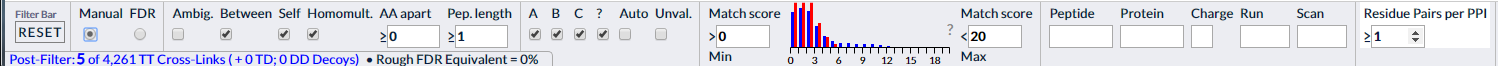
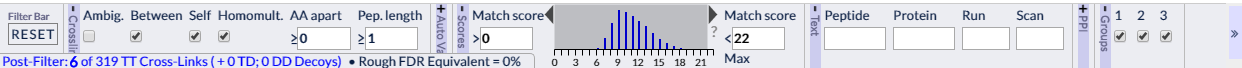
Update docs

diff --git a/html/views/3dngl.html b/html/views/3dngl.html
@@ -14,8 +14,8 @@
 <p><img src="../../img/3d.png" alt="3D View" /></p>
 <p>This view integrates the NGL 3D viewer (see references below) within Xi, showing the currently filtered cross-links in the context of a chosen PDB structure.</p>
 <h3>Representation</h3>
-<p>The majority of the panel is devoted to a 3D representation of the loaded PDB file. Proteins are shown as configurable structures with cross-links superimposed on top as elongated coloured bars. Residues at either end of the cross-links are shown as small grey spheres.</p>
-<p>Within this panel is a short piece of textual information giving the PDB filename and the coverage it has of the proteins in the search. This coverage can range from complete (100%) for single proteins with a fully covering PDB to tiny fractions (1-2%) for large protein complexes.</p>
+<p>The majority of the panel is devoted to a 3D representation of the loaded PDB file. Proteins are shown as configurable structures with cross-links superimposed on top as elongated coloured bars. Residues at either end of the cross-links are shown as small grey spheres. Cross-links where only one end is contained within the PDB are shown as residues.</p>
+<p>Within this panel are two short pieces of textual information giving the PDB filename and the coverage it has of the proteins and cross-links in the search. This coverage can range from complete (100%) for single proteins with a fully covering PDB to tiny fractions (1-2%) for large protein complexes. The number of cross-links can similarly vary from all of the currently filtered cross-links to only a handful where a PDB covers only a small fraction of the search proteins. As a rule of thumb a PDB file that covers only 50% of the protein sequences in a search can expect to display 25% (0.5 squared) of the full link set (both residues are covered) and 50% of the remaining links with one residue covered. For 10% coverage this drops to 1% (0.1 squared) for full links and 18% for half links.</p>
 <h3>Direct Interaction</h3>
 <p>Positional manipulation of the view is performed by clicking anywhere on the view and dragging the mouse pointer with the following effects:</p>
 <ul>
@@ -40,23 +40,24 @@
 <p>There are a number of options available that can affect the visual presentation of the cross-links in the 3D view.</p>
 <p>The &quot;Re-Centre&quot; button re-centres the structure within the panel (also available by pressing &quot;R&quot;.)</p>
 <p>There are three single selection drop-downs for choosing the parts of the PDB to display and for styling the protein structure itself. The first, &quot;Assembly&quot;, offers a choice of which biological assembly within the PDB file to display. The default is the whole PDB structure, and other options may include UnitCell (usually the same thing), SuperCell (multiple copies of the PDB arranged spatially) and various Biological Assemblies. These Biological Assemblies can range in scale from part of the PDB, through matching the PDB exactly, up to being composed of multiple copies of the PDB - experimentation with these settings is the only way to find out for certain though details on definitions can be found at <a href="https://pdb101.rcsb.org/learn/guide-to-understanding-pdb-data/biological-assemblies" title="Biological Assemblies">https://pdb101.rcsb.org/learn/guide-to-understanding-pdb-data/biological-assemblies</a>.</p>
+<p>The choice of assembly is important as it also usually constrains the PDB sub-structure on which cross-link distances will be calculated. For instance with PDB 1AO6, choosing to display the full PDB (two adjacent copies of the same protein) will look for possible cross-links within <em>and between</em> those two proteins. Choosing to display just one of the proteins (Bio-Assembly 1 or 2) will limit cross-link calculation to within just this protein.</p>
 <p>The second, &quot;Draw Proteins&quot;, changes the style of the protein representation. The default is &quot;Cartoon&quot; with other styles described here --&gt; <a href="%22http://nglviewer.org/ngl/api/manual/molecular-representations.html%22">NGL Representation Styles</a>. In practice, they range from atom-level representations like &quot;Point&quot; or &quot;Ball+Stick&quot; to more abstract representations such as &quot;Rope&quot; or &quot;Cartoon&quot;.</p>
-<p>The third selection dropdown, &quot;Colour Proteins&quot;, controls the colouring of the protein representations. They range from the default &quot;Uniform&quot; grey colouring to colour schemes that change on a per-atom or per-residue basis such as &quot;Element&quot; or &quot;Residue Name&quot;. Consequently, some colour schemes are only useful in conjunction with given representation styles e.g. the &quot;Element&quot; colour scheme works with &quot;Ball+Stick&quot; but has no effect in the &quot;Cartoon&quot; representation. A full list of NGL colour schemes can be found here --&gt; <a href="%22http://nglviewer.org/ngl/api/manual/coloring.html%22">NGL Colour Schemes</a>.</p>
+<p>The third selection dropdown, &quot;Colour Proteins&quot;, controls the colouring of the protein representations. They range from the default &quot;Uniform&quot; grey colouring to colour schemes that change on a per-atom or per-residue basis such as &quot;Element&quot; or &quot;Residue Name&quot;. Consequently, some colour schemes are only useful in conjunction with given representation styles e.g. the &quot;Element&quot; colour scheme works with &quot;Ball+Stick&quot; but has no effect in the &quot;Cartoon&quot; representation. A full list of NGL colour schemes can be found here --&gt; <a href="%22http://nglviewer.org/ngl/api/manual/coloring.html%22">NGL Colour Schemes</a>. There is one XiView specific scheme - &quot;Residues with Half-Links&quot; - that highlights residues that form one end of a cross-link where the other end is out of scope of the PDB structure.</p>
 <p>A final drop-down menu, &quot;Show&quot;, holds several options for setting various decorations on the protein structure, and some options for controlling how cross-links are superimposed upon the structure.</p>
 <p>For cross-links there are two independent options, we can:</p>
 <ol>
 <li>Show selected cross-links only - this reduces clutter and selected cross-links aren't obscured by unselected cross-links, which is particularly noticeable in 3D.</li>
 <li>Show shortest possible cross-links only - in PDB structures with multiple copies of a protein, there are multiple places a cross-link could be positioned. E.g. in a dimer structure (protein copies A and B) a cross-link between positions 1 and 2 could have four possible solutions, A1-A2, A1-B2, B1-A2 or B1-B2. This setting, selected by default, tells the view to show only the shortest possible cross-link out of these possibilities.</li>
+<li>Show Inter-Model distances - PDB structures are sometimes divided into separate models. These models may not be accurately aligned to each other or may even be a number of slightly different alternative structures occupying the same space, and thus distances between them may be meaningless. By default this option is set to off, but can be checked and will then calculate distances between residues in different PDB models.</li>
 </ol>
 <p>The other available options under &quot;Show&quot; are</p>
 <ul>
 <li>Show Cross-Linked Residues - represent residues as balls at the ends of displayed cross-links.</li>
 <li>Show All Proteins - show proteins in multiple protein PDBs that aren't potentially involved in the current set of filtered cross-links.</li>
 <li>Show Distance Labels - displayed cross-links are annotated with a small label showing their length in Angstroms. These show up regardless for selected or highlighted cross-links.</li>
-<li>Protein Chain Label Style - Long, Short, None - a set of radio buttons for deciding the content of the label annotating each protein. Long for a verbose description which NGL pulls from the PDB file (plus the short description), short for a label with the protein name and chain index, and none to remove these labels altogether.</li>
+<li>Protein Chain Label Style - Long, Short, None, Fixed Size - a set of radio buttons for deciding the content of the label annotating each protein. Long for a verbose description which NGL pulls from the PDB file (plus the short description), short for a label with the protein name and chain index, and none to remove these labels altogether. A final checkbox, &quot;Fixed Size&quot;, determines whether these labels stay a fixed size when the structure is zoomed in or out.</li>
 </ul>
 <p>There is one remaining button which sits by itself, &quot;Download Image as PNG&quot;, which will download a PNG (bitmap format) file of the current state of the 3D view. A vector graphic format is not available for this view. The filename will include information on search id and current filter settings.</p>
-<p>Lastly, like the other views that sit in sub-panels, the 3D view can be resized by clicking on and dragging its corners, and repositioned by clicking on and dragging the title bar. The view can be closed using the X button next to the top right-hand corner.</p>
 <h3>References</h3>
 <ul>
 <li>AS Rose, AR Bradley, Y Valasatava, JM Duarte, A Prlić and PW Rose. <em>NGL viewer: web-based molecular graphics for large complexes.</em> Bioinformatics: bty419, 2018. <a href="http://dx.doi.org/10.1093/bioinformatics/bty419">doi:10.1093/bioinformatics/bty419</a></li>

diff --git a/html/views/filterBar.html b/html/views/filterBar.html
@@ -14,12 +14,12 @@
 <p><img src="../../img/filterBarABC.png" alt="Filter Bar" /></p>
 <p>At the bottom of the xiView results visualisation page are a bar of controls for filtering the data. Working from left to right, these fall into the following subsections:</p>
 <ul>
-<li>Modal</li>
-<li>Cross-link attributes</li>
+<li>Mode</li>
+<li>Crosslinks (Cross-link attributes)</li>
 <li>Then either both of
 <ul>
-<li>Pass / Fail Threshold (or ABC / Auto / Unval)</li>
-<li>Score Cut-Off</li>
+<li>Pass / Fail Threshold (or Auto Val - ABC / Auto / Unval)</li>
+<li>Scores</li>
 </ul>
 </li>
 <li>Or
@@ -27,10 +27,14 @@
 <li>FDR</li>
 </ul>
 </li>
-<li>Match Attributes</li>
+<li>Text (Match attributes)</li>
+<li>PPI (Proteins Per Interaction)</li>
+<li>Groups</li>
 </ul>
+<p>Each subsection is collapsible / re-expandable by clicking on the name of the sub-section. This allows filters of interest to be viewed without being pushed off the edge of the display.</p>
 <p>A summary line at the very bottom of the window describes the effect of the current filtering state on the cross-link data set, and a button is also available to reset the filter state.</p>
-<h3>Modal</h3>
+<p>It is important to be aware that the filter operates conjunctively i.e. a match / cross-link must pass all the filters set here to become visible.</p>
+<h3>Mode</h3>
 <p>This sub-bar, comprised of two radio buttons: 'Manual' and 'FDR', only appears if unvalidated cross-links have been loaded as well. 'Manual' is selected by default and means the following other sub-bars are available in the filter bar: 'Cross-link positional categories', 'Score Cut-off' and 'Match attributes'. Selecting 'FDR' replaces the 'Cross-link positional categories' and 'Score Cut-off' sub-bars with the FDR sub-bar; the 'Match attributes' sub-bar remains in place.</p>
 <h3>Cross-link positional categories</h3>
 <p>These controls allow including or excluding categories of cross-links which are defined on the basis of link position. These categories are:</p>
@@ -46,32 +50,37 @@
 <p>Radio buttons that allow all matches, only those where the 'pass threshold' attribute (as read from the uploaded data) is true, or only those where it is false. This section appears in the Public version of XiView.</p>
 <h3>ABC / Auto / Unval - XiView Lab</h3>
 <p>A set of checkboxes that pass or filter out cross-links based on their manually assessed quality (A, B, C and ?), or their algorithmically assessed quality (AUTO), or their validation status (Unval. = unvalidated). This section only appears in the Rappsilber Lab version of the interface as it depends on specialised output from XiSearch.</p>
-<h3>Score Cut-off</h3>
+<h3>Scores</h3>
 <p>This sub-section allows upper and/or lower score cut-offs for the matches to be set. These is done by entering text in the input fields or dragging on the histogram to set and move a range slider.</p>
 <p>Note that the contents of the score histogram shown here is not affected by other filter settings; to see a histogram of scores post-filtering open the <a href="./histogram.html" title="Histogram View">Histogram View</a>.</p>
 <h3>FDR</h3>
 <p>When the FDR mode is selected, this sub-bar allows a basic link-level FDR threshold to be set. Matches that do not pass the threshold are filtered out. Five pre-set levels are provided (1, 5, 10, 20, and 50%) along with an open-entry input for other values. FDRs are reported separately for within and between protein cross-link sets.</p>
 <p><img src="../../img/filterBarFdr.png" alt="Filter Bar FDR" /></p>
-<h3>Match Attributes</h3>
+<h3>Text</h3>
 <p>A number of text boxes that allow matches to be filtered based on the contents of some of their attributes.</p>
 <ul>
 <li>
 <p>'Peptide' filters to matches that include the entered text string as part of either of the linked peptide sequences, e.g. 'FAKR' would filter to matches where one of the linked peptides includes the subsequence FAKR. Separating two strings with a hyphen will filter to matches where one peptide includes one subsequence and the second one the other, e.g. 'FAKR-KK' will filter to matches where FAKR is in one peptide and KK in the other.</p>
 </li>
 <li>
-<p>'Protein' takes in a comma separated list of values that are text matched against protein descriptions and names. Matches that don't link such proteins are filtered out. A hyphen can be used to specify matches that link two particular proteins or sets of proteins. E.g., &quot;ALBU&quot; would show matches that involve a protein containing the text 'ALBU' in its name or description such as ALBU-HUMAN. &quot;BOVINE-CHICK&quot; would show all matches that connect proteins where one protein contains 'BOVINE' and the other 'CHICK'. &quot;ALBU, BOVINE-CHICK&quot; would additively combine the previous two scenarios.</p>
+<p>'Protein' takes in a comma separated list of values that are text matched against protein descriptions and names. Matches that don't link such proteins are filtered out. A hyphen can be used to specify matches that link two particular proteins or sets of proteins. E.g., &quot;ALBU&quot; would show matches that involve a protein containing the text 'ALBU' in its name or description such as ALBU-HUMAN. &quot;BOVINE-CHICK&quot; would filter to all matches that connect proteins where one protein contains 'BOVINE' and the other 'CHICK'. &quot;ALBU, BOVINE-CHICK&quot; would additively combine the previous two scenarios.</p>
 </li>
-<li>
-<p>'Charge' filters out matches that do not have the entered charge state, which is always a positive integer. Two numbers separated by a hyphen indicate that a range will be used as a filter e.g. '3-6' will filter out all matches with charge states less then 3 or more than 6.</p>
-</li>
+</ul>
+<!---
+- 'Charge' filters out matches that do not have the entered charge state, which is always a positive integer. Two numbers separated by a hyphen indicate that a range will be used as a filter e.g. '3-6' will filter out all matches with charge states less then 3 or more than 6.
+-->
+<ul>
 <li>
 <p>'Run' filters out matches whose 'Run' attribute does not contain the entered text as a sub-string.</p>
 </li>
 <li>
-<p>'Scan' similarly filters out matches whose 'Scan' attribute does not contain the entered text as a sub-string. Whilst 'Scan' is actually a number, treating it as a string here allows more flexibility: entering say '21' will pass all matches whose scan number includes '21' at some position, rather than exactly matching '21'.</p>
+<p>'Scan' filters out matches whose 'Scan' attribute does not match the exact number entered here.</p>
 </li>
 <li>
 <p>'Residue Pairs per PPI' sets a threshold on the number of distinct matches between pairs of proteins that needs to be met before those matches are shown. This can be useful for quickly filtering out weakly interacting protein-protein pairs, and can tidy up the XiNet view in particular.</p>
+</li>
+<li>
+<p>If multiple searches are being visualised together, the 'Groups' section will be visible. Within this are checkboxes for each of the search group numbers defined by the user back on the history page. Unchecking will remove all matches that belong to a particular search group.</p>
 </li>
 </ul>
 <h3>Summary</h3>

diff --git a/html/views/circular.html b/html/views/circular.html
@@ -4,18 +4,21 @@
 <title>circular</title>
 <meta http-equiv="Content-Type" content="text/html; charset=utf-8" />
 <style type="text/css">
-@import url("/xidocs/docs.css");
+@import url("../../docs.css");
+@import url("../docs.css");
+@import url ("/xidocs/docs.css");
 </style>
 </head>
 <body>
 <h2>Circular View</h2>
 <p><img src="../../img/circular.png" alt="Circular View" /></p>
 <h3>Representation</h3>
-<p>This view uses a version of the popular Circos layout to display the Cross-Links. Proteins are arranged around the circumference of the circle as thick arcs relative to their length, and cross-links are shown as curves connecting proteins at the appropriate positions. Where possible proteins are labelled with their names, though for displays showing many proteins this is not always possible, especially for shorter proteins.</p>
+<p>This view uses a Circos-like layout to display the Cross-Links. Proteins are arranged around the circumference of the circle as thick arcs of lengths proportional to protein size, and cross-links are shown as curves connecting proteins at the appropriate positions. Where possible proteins are labelled with their names, though for displays showing many proteins this is not always possible, especially for shorter proteins.</p>
 <h3>Direct Interaction</h3>
 <p>Like the other views in Xi View, individual cross-links can be highlighted by moving the mouse pointer over them (plus a tooltip supplies details on the particular cross-link). Similarly, cross-links can be selected by using the left mouse button. In conjunction with the CTRL key, multiple cross-links can be selected (by clicking on unselected links) and currently selected cross-links can be unselected.</p>
 <p>Highlighting and selecting can also be performed on the protein representations. Here, selecting a protein will also select all the cross-links that connect to it. Again, in conjunction with the CTRL key, multiple proteins can be selected and deselected.</p>
 <p>Clicking with the left mouse button on the background of the view will clear all selections.</p>
+<p>Manual ordering of multiple proteins can be performed by left-clicking on a protein representation and dragging to a new position around the circumference of the circle.</p>
 <h3>Options</h3>
 <p>There are two drop-down menus present that can affect the visual presentation of the cross-links in the circle view.</p>
 <p>The first, &quot;Order Proteins&quot;, decides the ordering of proteins around the circumference and as such is useful for multiple protein searches. The proteins may be ordered either alphabetically (default), by sequence length, or using an algorithm intended to set the protein ordering to reduce visual crossings in the display (this necessarily only reduces crossings of between cross-links, self cross-links are at set positions within a single protein).</p>
@@ -25,9 +28,9 @@
 <li>Residue Labels (If Few Links) - if only a small number of cross-links are currently displayed (around 20) then the amino acid letters can be shown at the ends of the cross-links.</li>
 <li>Self-Links on Outside - self links can be moved to the outside of the protein circle, leaving only between links in the interior of the circle.</li>
 <li>Links With Overlapping Peptides Opposite To Self Links - a.k.a. homomultimers... whichever side (in/out) self-links are displayed on, checking this setting will show homomultimeric cross-links on the other side.</li>
+<li>Selected Cross-Links Only - only show currently selected cross-links in this view.</li>
 </ol>
-<p>There is one remaining button which sits by itself, &quot;Download Image as SVG&quot;, which will download an SVG (vector format) file of the current state of the circular view. The filename will include information on search id and current filter settings.</p>
-<p>Lastly, like the other views that sit in sub-panels, the circular view can be resized by clicking on and dragging its corners, and repositioned by clicking on and dragging the title bar. The view can be closed using the X button next to the top right-hand corner.</p>
+<p>Finally, there is one remaining button which sits by itself, &quot;Download Image as SVG&quot;, which will download an SVG (vector format) file of the current state of the circular view. The filename will include information on search id and current filter settings.</p>
 
 </body>
 </html>

diff --git a/html/xiview.html b/html/xiview.html
@@ -12,7 +12,7 @@
 <body>
 <h2>Xi View</h2>
 <p>Xi View contains many different ways to view cross-link data, from circle plots, protein network views, protein sequence views and tables, to raw spectra and peak views. Data can be filtered and exported, as can images. PDB datasets can be incorporated to give physical context to the cross-links, enabling 3D and contact map views, with automatic alignment performed between Xi and PDB sequences.</p>
-<p>This documentation is divided into four logical sections:</p>
+<p>This documentation is divided into three logical sections:</p>
 <ol>
 <li>Filtering Data</li>
 <li>Viewing Data</li>
@@ -49,11 +49,20 @@
 </ol>
 </li>
 </ul>
-<p>The <a href="./views/legend.html" title="Legend View">Legend View</a> can be considered in a category of its own, its main function to choose and refine a colour scheme used in the rest of the Xi View interface.</p>
+<p>The <a href="./views/legend.html" title="Legend View">Legend View</a> can be considered in a category of its own, its main function is to choose and refine a colour scheme used in the rest of the Xi View interface.</p>
 <h4>Filtering</h4>
 <p>All the positional and metadata views above reflect the current filter state, only showing cross-links / matches that pass the filter settings.</p>
 <h4>Selection</h4>
 <p>All the positional and meta-data views also support the idea of selecting / highlighting specific cross-links and matches, with selections and highlighting performed in one view reflected in other active views.</p>
+<h4>Panel View Functionality</h4>
+<p>The views shown within the panels have a number of functions available through the icons at the top of the panel frame. From left to right these are:</p>
+<ol>
+<li>Export an image (useful when the same option in the control panel has been hidden).</li>
+<li>Hide the view's control panel i.e. only show the visualisation.</li>
+<li>Maximise / restore the panel size.</li>
+<li>X - close the panel.</li>
+</ol>
+<p>The panels can also be resized by dragging their corners and repositioned by dragging their title bars.</p>
 <h4>Relation to Viewing Spectra</h4>
 <p>The <a href="./views/selectionTable.html" title="Selected Match Table">Selected Match Table</a> acts as the bridge to the underlying raw data displayed in the <a href="https://spectrumviewer.org/help.php" title="Spectrum View">Spectrum View</a> - open the xiSpec Feature Support section in this link for spectrum viewer use instructions. Selecting a match in this table will displaying the underlying raw data in the Spectrum View.</p>
 <h3>3. Exporting Data</h3>
@@ -64,7 +73,7 @@
 <p>The Residues export option outputs a much simpler csv file indicate how many times certain residues (AAs) turn up in the cross-link data set and how often each pairing of residue occurs. This is useful for confirming that cross-links only go between given residues.</p>
 <p>All exported CSV files are saved with timestamped file names that include a shorthand of the current data filter state.</p>
 <p>The final option &quot;Make Filtered Xi URL&quot; offers the option to export a URL that includes the current filter state. Upon re-opening in a browser this URL will set the filter to the values in the URL as a convenient shortcut.</p>
-<p>Finally, almost every view has the option to save their current representation as a SVG file, which again includes a timestamp and filter state within the filename.</p>
+<p>Finally, almost every view has the option to save their current representation as a SVG or PNG file, which again includes a timestamp and filter state within the filename. Most of the exported images also include a colour key, and most views generate SVG images that include a link to return to the search.</p>
 
 </body>
 </html>

diff --git a/html/views/scatterplot.html b/html/views/scatterplot.html
@@ -4,7 +4,9 @@
 <title>scatterplot</title>
 <meta http-equiv="Content-Type" content="text/html; charset=utf-8" />
 <style type="text/css">
-@import url("/xidocs/docs.css");
+@import url("../../docs.css");
+@import url("../docs.css");
+@import url ("/xidocs/docs.css");
 </style>
 </head>
 <body>
@@ -12,14 +14,13 @@
 <p><img src="../../img/scatterplot.png" alt="Scatterplot" /></p>
 <p>The scatterplot view displays the correlation of two chosen cross-link / match attributes in graphical form.</p>
 <h3>Representation</h3>
-<p>Every filtered cross-link or match in the current dataset (which depends on the attributes chosen) is shown as a small square, coloured according to the current colour scheme, or yellow if currently selected, or orange if currently highlighted. Decoys are also shown as unfilled (transparent) squares, which just have an outline. The title above the scatterplot details the current quantity of displayed cross-links / matches, and the categories into which they are currently divided.</p>
+<p>Every filtered cross-link or match in the current dataset (which depends on the attributes chosen) is shown as a small square, coloured according to either the current colour scheme, or yellow if currently selected, or orange if currently highlighted. Decoys are also shown as unfilled (transparent) squares, which just have an outline. The title above the scatterplot details the current quantity of displayed cross-links / matches, and the categories into which they are divided by the current colour scheme (if the current colour scheme is a continuous scale it will default to the inter and intra-protein categories).</p>
 <h3>Interaction</h3>
 <p>Moving the mouse pointer across the scatterplot displays details in a tooltip for those cross-links or matches within a set distance (usually about 20 pixels). Selection in this view is performed by left-clicking and dragging the mouse pointer to cover the ranges of the two attributes of interest. This selection action can be used in combination with the CTRL key to toggle selection states - selecting unselected elements and de-selecting currently selected elements.</p>
 <h3>Options</h3>
 <p>The main controls for this view are the two &quot;Plot this Data Along (X/Y)Axis&quot; dropdowns which choose the metadata attribute to be distributed in the scatterplot - one for each axis. Like the histogram, the availability of these attributes fundamentally depends on the contents of the loaded search data though additional metadata can be added using the Load &gt; Cross-Link Metadata dialog available through Xi View's top menu bar. If a PDB file has been loaded, then the Cross-Link Distances are available to plot as one of the options.</p>
 <p>The &quot;Add Jitter&quot; toggle option decides whether to displace each square a small distance from its calculated position. This is useful for attributes with a small number of discrete values (e.g. Charge) where many representations would be overlaid at the same point. Turning jitter on gives a truer visual representation of the data density / distribution for these attributes.</p>
 <p>As in other views, the &quot;Download Image as SVG&quot; button will download an SVG (vector format) file of the current state of the view. The filename will include information on search id and current filter settings.</p>
-<p>Lastly, like the other views that sit in sub-panels, this view can be resized by clicking on and dragging its corners, and repositioned by clicking on and dragging the title bar. The view can be closed using the X button next to the top right-hand corner.</p>
 
 </body>
 </html>

diff --git a/html/views/histogram.html b/html/views/histogram.html
@@ -4,13 +4,15 @@
 <title>histogram</title>
 <meta http-equiv="Content-Type" content="text/html; charset=utf-8" />
 <style type="text/css">
-@import url("/xidocs/docs.css");
+@import url("../../docs.css");
+@import url("../docs.css");
+@import url ("/xidocs/docs.css");
 </style>
 </head>
 <body>
 <h2>Histogram</h2>
 <p><img src="../../img/histogram.png" alt="Histogram" /></p>
-<p>The histogram view displays the distribution of a selected meta-data attribute across the current filtered cross-link and match population. </p>
+<p>The histogram view displays the distribution of a selected meta-data attribute across the current filtered cross-link and match population.</p>
 <h3>Representation</h3>
 <p>The histogram automatically chooses a reasonable number and range of intervals to aggregate the data over and display (up to 100), and the categories shown in the chart are taken from the current colour scheme if a discrete scheme (i.e. non-continuous and with a few separate categories), otherwise it reverts to the default self / between / homomultimeric cross-link categories.</p>
 <h3>Interaction</h3>
@@ -19,8 +21,8 @@
 <h3>Options</h3>
 <p>The main control for this view is the &quot;Plot this Data Along Axis&quot; dropdown which chooses the metadata attribute to be distributed in the histogram. The availability of these attributes fundamentally depends on the contents of the loaded search data though additional metadata can be added using the Load &gt; Cross-Link Metadata dialog available through Xi View's top menu bar.</p>
 <p>If a PDB file has been loaded, then the Cross-Link Distances are available to plot as one of the options. With this attribute a sample distribution of potential distances from the PDB is also plotted (as the &quot;Random&quot; series in the chart) to show users whether their cross-link distances are differentiable from background noise. Also, a further dropdown becomes available, &quot;Random Scope&quot;, which allows a user to select the range from which these sample distances are taken - from anywhere within the full PDB, from only within copies of the same proteins in the PDB, or only from within only the same chains in the PDB. This option can produce large changes in the sample distribution - with samples taken only from within the same chains typically having much smaller average distances. If crosslinker specificities are available then the random distances are chosen only between cross-linkable residues.</p>
+<p>The random distances are also affected by two settings in the 3D View. Random distances will only be selected from within the current assembly, and also never between PDB models if &quot;inter-model distances&quot; is not checked. This can be verified by changing these settings in the 3D view, and if it affects the possible links the randoms can be chosen from it will automatically change the random distribution here.</p>
 <p>As in other views, the &quot;Download Image as SVG&quot; button will download an SVG (vector format) file of the current state of the view. The filename will include information on search id and current filter settings.</p>
-<p>Lastly, like the other views that sit in sub-panels, this view can be resized by clicking on and dragging its corners, and repositioned by clicking on and dragging the title bar. The view can be closed using the X button next to the top right-hand corner.</p>
 
 </body>
 </html>

diff --git a/html/history/index.html b/html/history/index.html
@@ -5,6 +5,8 @@
 <meta http-equiv="Content-Type" content="text/html; charset=utf-8" />
 <style type="text/css">
 @import url("../../docs.css");
+@import url("../docs.css");
+@import url ("/xidocs/docs.css");
 </style>
 </head>
 <body>
@@ -20,9 +22,9 @@
 <p>These controls can be used together to find searches of interest, though generally the filtering is the most useful.</p>
 <p>The <em>Keep</em> control in the title bar, if checked, will keep the current filtering and sorting settings for when the history page is next accessed on the same computer.</p>
 <h3>Visualise a Single Search</h3>
-<p>Links in the first two columns - <em>Visualise Search</em> and <em>+FDR</em> - launch the <a href="../../html/xi3/index.html">Xi Visualisation</a>. The first column's link only loads auto-validated crosslinks into the visualisation. The second column's link (<em>+FDR</em>) also loads decoy and unvalidated crosslinks, which allows basic FDR (False Discovery Rate) calculations to be used as a filter within the visualisation.</p>
+<p>Links in the first two columns - <em>Visualise Search</em> and <em>+FDR</em> - launch the <a href="../../html/xiview.html">Xi Visualisation</a>. The first column's link only loads auto-validated crosslinks into the visualisation. The second column's link (<em>+FDR</em>) also loads decoy and unvalidated crosslinks, which allows basic FDR (False Discovery Rate) calculations to be used as a filter within the visualisation.</p>
 <h3>Visualise Aggregated Searches</h3>
-<p>Aggregate multiple searches for visualisation using the number input widgets in the <em>Agg Group</em> column. Enter a number for each search that should be aggregated. <strong>Number Meaning</strong>:  Searches marked with the same number will be coloured the same in the resulting visualisation - so enter the same number if you want searches to be indistinguishable, and enter different numbers for searches you wish to differentiate visually.</p>
+<p>Aggregate multiple searches for visualisation using the number input widgets in the <em>Agg Group</em> column. Enter a number for each search that should be aggregated. <strong>Number Meaning</strong>:  Groups of searches marked with different numbers will be distinguishable from each other in the resulting visualisation through two mechanisms. Firstly, the group colouring scheme will colour crosslinks according to which search group their matches (filtered) are in; crosslinks that are composed of filtered matches from more than one group will be coloured neutrally. Secondly, the filter bar will contain options to hide all matches from each group.</p>
 <p>Press the <em>Aggregate</em> button in the title bar to view the aggregated searches with auto-validated links only. Press the <em>Agg. For FDR</em> button to include decoy and unvalidated links so an FDR filtering can be performed in the visualisation (exactly as for the single search).</p>
 <h3>Validate a Search</h3>
 <p>Click the underlined 'Validate' text in the <em>Validation</em> column to show a selection dialog for a particular search. This dialog has options to validate various combinations of cross-links - including linear peptides and/or decoy proteins. Selecting an option will then take you to the search's validation page and populate it with the requested cross-links.</p>

diff --git a/html/views/matrix.html b/html/views/matrix.html
@@ -23,8 +23,7 @@
 <p>The dropdown menu, &quot;Show Protein Pairing&quot;, in the view controls shows a list of possible protein-protein pairings that can be shown in the matrix. Only those pairings with any unfiltered cross-links are listed, and also ordered by the number of cross-links (again, this is the unfiltered count, it does not change upon cross-link filtering).</p>
 <p>Choosing a pairing that pairs a protein with itself will show the self cross-links for that protein. In this particular case, we treat the protein along the Y axis as always having the highest residue index out of the two residues involved in a cross-link, so cross-links always appear &quot;north-west&quot; of the diagonal. Choosing a pairing of two different proteins will show the corresponding between cross-links, and also produce a rectangular matrix when the proteins are of different sizes.</p>
 <p>When a PDB file is loaded, the matrix will draw a background of distance data which helps to show the cross-links in context. For large PDBs, it simply shows a white banding of which areas of the protein are covered by the PDB - in this way it can be clearly seen which cross-links can be expected to have distance data or which will not be calculable. For smaller PDBs the shortest distances between the residues are displayed as a coloured background, the colours and cutoffs controlled by the Distance colour scheme in the <a href="../views/legend.html" title="Legend">Legend </a>view. This background is also affected by the Assembly setting in the <a href="../views/3dngl.html" title="3DNGL">3D</a> view. If the assembly is restricted to only part of the full pdb, then the distance background here will change to reflect that e.g. only distances between molecules in the current assembly are considered. This is an important consideration in dimers etc where distances can often be shorter between neighbouring molecules than within individual instances.</p>
-<p>The remaining button, &quot;Download Image as SVG&quot;, will download an SVG (vector format) file of the current state of the matrix view. The filename will include information on search id and current filter settings.</p>
-<p>Lastly, like the other views that sit in sub-panels, this view can be resized by clicking on and dragging its corners, and repositioned by clicking on and dragging the title bar. The view can be closed using the X button next to the top right-hand corner.</p>
+<p>Finally, the remaining button, &quot;Download Image as SVG&quot;, will download an SVG (vector format) file of the current state of the matrix view. The filename will include information on search id and current filter settings.</p>
 
 </body>
 </html>

diff --git a/html/views/xinet.html b/html/views/xinet.html
@@ -4,7 +4,9 @@
 <title>xinet</title>
 <meta http-equiv="Content-Type" content="text/html; charset=utf-8" />
 <style type="text/css">
-@import url("/xidocs/docs.css");
+@import url("../../docs.css");
+@import url("../docs.css");
+@import url ("/xidocs/docs.css");
 </style>
 </head>
 <body>
@@ -25,8 +27,9 @@
 <h3>Options</h3>
 <p>The XiNet specific menu sits in the top-right of the XiView display and contains several options for tweaking or storing the current XiNet layout.</p>
 <p>Firstly, the &quot;Drag To Pan Or Select&quot; radio button pair controls whether left-clicking the mouse and dragging on the XiNet background either a) pans the network around or b) draws a rectangle, within which any encroaching protein representations are selected when the mouse button is released.</p>
-<p>The &quot;Layout&quot; portion of the menu allows the Saving and Loading of multiple layout configurations for each search - a time-saver in not needing to re-create preferred manual layouts from scratch. The &quot;Auto&quot; button will relayout the entire network using a built in layout algorithm from the cola.js layout library. </p>
-<p>Finally, the &quot;Image as SVG&quot; button will download an SVG (vector format) file of the current state of the XiNet view. The filename will include information on search id and current filter settings.</p>
+<p>The &quot;Layout&quot; portion of the menu allows the Saving and Loading of multiple layout configurations for each search - a time-saver in not needing to re-create preferred manual layouts from scratch. The &quot;Auto&quot; button will relayout the entire network using a built in layout algorithm from the cola.js layout library.</p>
+<p>The &quot;Download Image as SVG&quot; button will download an SVG (vector format) file of the current state of the XiNet view. The filename will include information on search id and current filter settings.</p>
+<p>Finally, the &quot;Labels&quot; checkbox turns off protein labels, often useful for large networks where a multitude of labels can obscure each other and other information.</p>
 <h3>Reference</h3>
 <p>Combe, C. W., Fischer, L. &amp; Rappsilber, J. <a href="https://doi.org/10.1074/mcp.O114.042259" title="DOI Link">xiNET: Cross-link Network Maps With Residue Resolution</a>. <em>Mol Cell Proteomics</em> 14, 1137–1147 (2015).</p>
 

diff --git a/html/views/legend.html b/html/views/legend.html
@@ -23,7 +23,7 @@
 </ol>
 <p>Other colour schemes become available when loading cross-link metadata. Each non-positional column in a cross-link metadata file will be converted to a colour scheme if possible, most usually to a scale between the minimum and maximum values in the column.</p>
 <p>Once selected, the details of a colour scheme appear underneath the dropdown in the section marked &quot;Current Cross-Link Colour Scheme&quot;. Within this is a small table of colours and a description of what values/categories of cross-link they represent. Generally, these colours are editable - clicking on the small coloured swatch in the Colour column will bring up a widget to change the colour for that category/value, and this change will be seen in any active Xi views. Some colour schemes are uneditable - those that have a specific colour set for each cross-link, though none of the default colour schemes come under this category.</p>
-<p>Underneath this section is a button, &quot;Download This Colour Scheme as SVG&quot;, which saves the colour scheme as a legend in a vector format (SVG) that can be used to complement previously downloaded figures - as long as they use the same colour scheme.</p>
+<p>Underneath this section is a button, &quot;Download This Colour Scheme as SVG&quot;, which saves the colour scheme as a legend in a vector format (SVG) that can be used to complement previously downloaded figures - as long as they use the same colour scheme. However, most views now include the colour key automatically in their figure exports.</p>
 <p>The last part of the view consists of a section headed &quot;View Legends&quot; that includes a set of expandable/collapsible tables, each of which contain the legend for a particular view. These legends are deliberately mainly monochromatic - mostly the colouring will be decided by the colour scheme selection above - these sections rather describe the style of marks used to represent cross-links and other elements within each view.</p>
 <p>Lastly, like the other views that sit in sub-panels, this view can be resized by clicking on and dragging its corners, and repositioned by clicking on and dragging the title bar. The view can be closed using the X button next to the top right-hand corner.</p>
 

diff --git a/html/views/proteinInfo.html b/html/views/proteinInfo.html
@@ -4,7 +4,9 @@
 <title>proteinInfo</title>
 <meta http-equiv="Content-Type" content="text/html; charset=utf-8" />
 <style type="text/css">
-@import url("/xidocs/docs.css");
+@import url("../../docs.css");
+@import url("../docs.css");
+@import url ("/xidocs/docs.css");
 </style>
 </head>
 <body>
@@ -15,7 +17,6 @@
 <h3>Interaction</h3>
 <p>However, the data associated with the &quot;Sequence&quot; row is dynamic and interactive. Here, the protein sequence is displayed as a string, with residues involved with the current filtered set of cross-links highlighted in red and underlined. Moving the mouse pointer over one of these residues displays the cross-links it is involved with in a tooltip, and in the case of self-links will also highlight the residues at the other ends of these cross-links. Residues that do have cross-links associated with them but are currently filtered out are shown in pink, while residues with no cross-links are shown in grey. It is also useful as a quick sanity check when we know only certain residues (i.e. KSTY) should ever be cross-linked due to the type of cross-linker used in the experiment the current search is sourced from.</p>
 <p>Selection can again be performed by left-clicking on a residue, and again any selections or highlighting performed in this view are reflected in other active views and vice versa.</p>
-<p>Lastly, like the other views that sit in sub-panels, this view can be resized by clicking on and dragging its corners, and repositioned by clicking on and dragging the title bar. The view can be closed using the X button next to the top right-hand corner.</p>
 
 </body>
 </html>

diff --git a/html/views/searchSummaries.html b/html/views/searchSummaries.html
@@ -4,7 +4,9 @@
 <title>searchSummaries</title>
 <meta http-equiv="Content-Type" content="text/html; charset=utf-8" />
 <style type="text/css">
-@import url("/xidocs/docs.css");
+@import url("../../docs.css");
+@import url("../docs.css");
+@import url ("/xidocs/docs.css");
 </style>
 </head>
 <body>
@@ -14,7 +16,6 @@
 <p>The search summary displays an expandable/collapsible tree of metadata associated with the searches currently loaded into Xi View. This offers a sanity check for users to see if the searches they're viewing do indeed use the files and settings they think it does.</p>
 <h3>Options</h3>
 <p>For searches that include cross-linker and modification information (usually sourced from the Xi Search engine) a human-readable description of the search metadata can be downloaded by pressing the &quot;Download Search Descriptions&quot; button, often useful for publications / sharing with collaborators etc.</p>
-<p>Lastly, like the other views that sit in sub-panels, this view can be resized by clicking on and dragging its corners, and repositioned by clicking on and dragging the title bar. The view can be closed using the X button next to the top right-hand corner.</p>
 
 </body>
 </html>
